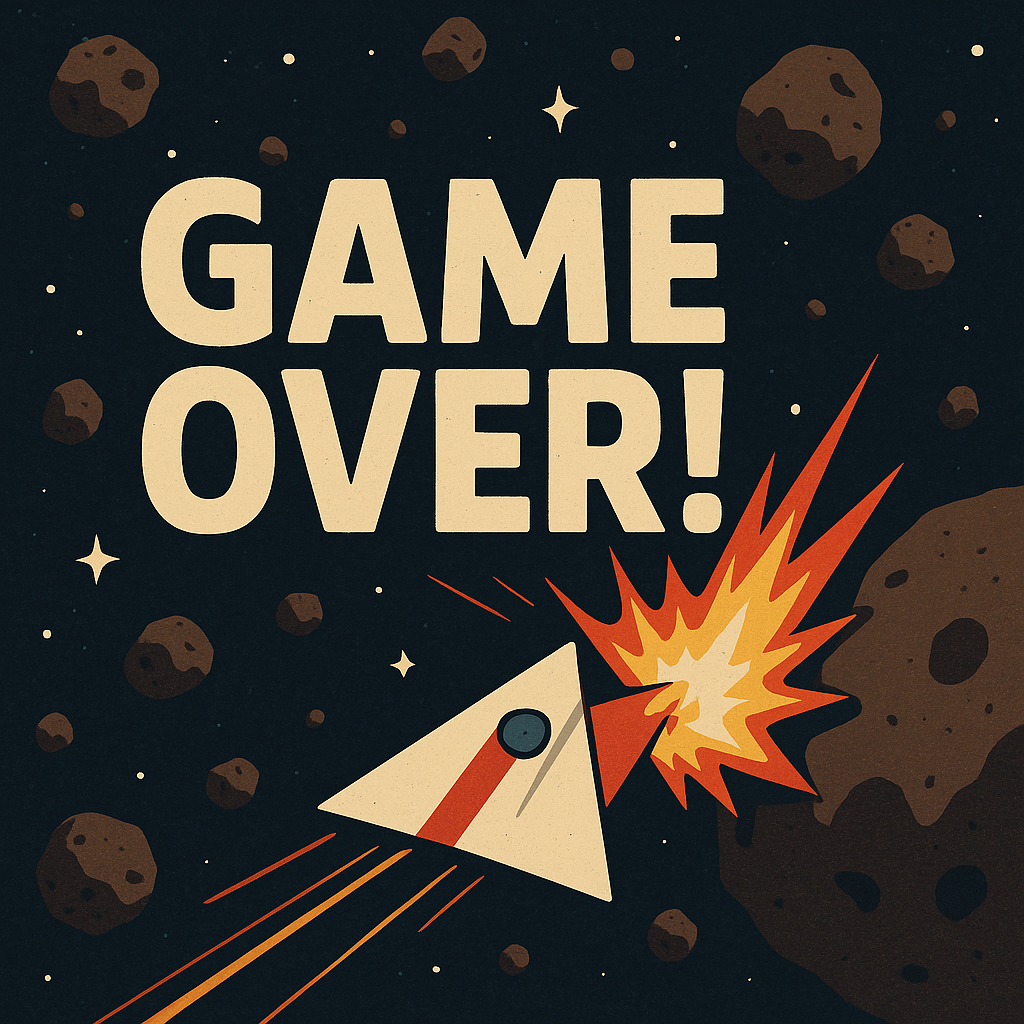
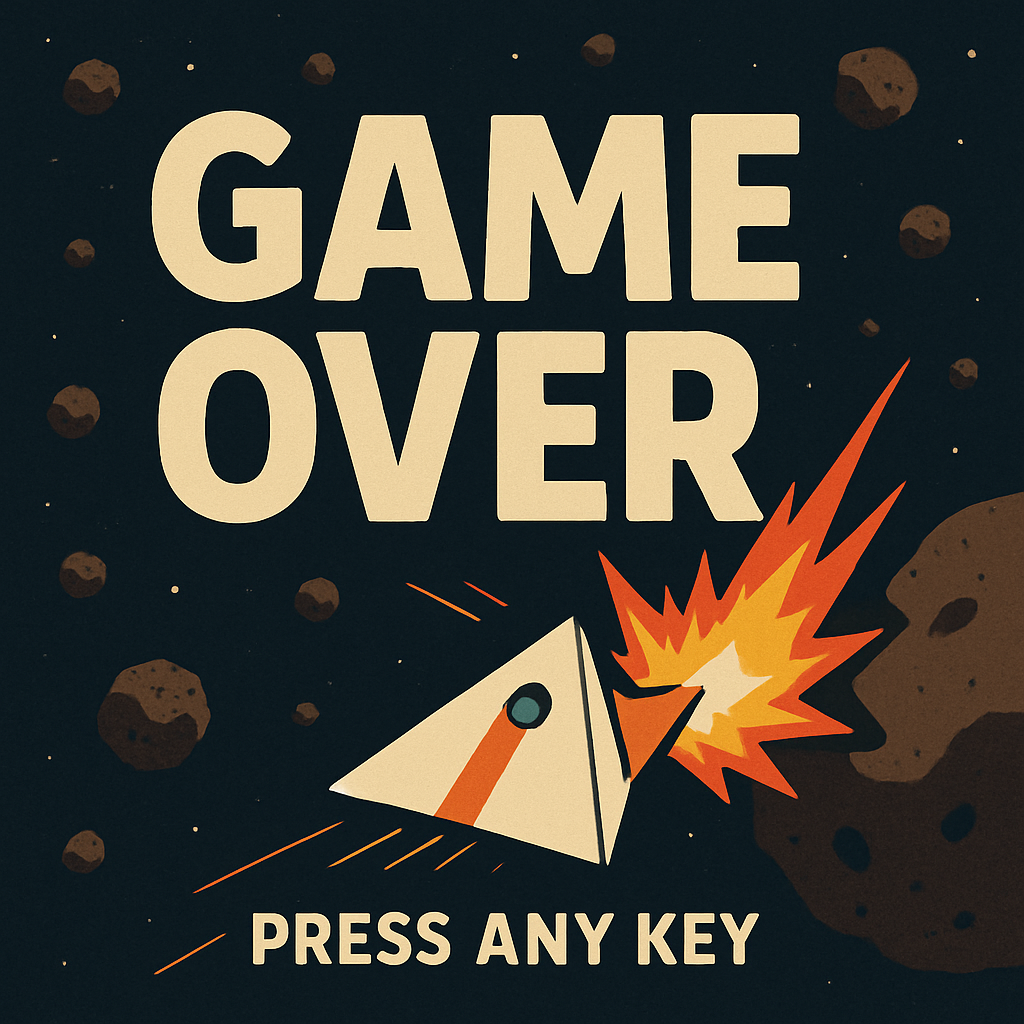
added game over message

diff --git a/main.py b/main.py
@@ -60,7 +60,8 @@ def main():
         
         dt = (fpsclock.tick(60)) /1000                   ##This limits the FPS to 60
 
-    end_screen = pygame.image.load('Gameover.png')
+    end_img = pygame.image.load('Gameover.png')
+    end_screen = pygame.transform.scale(end_img, (SCREEN_WIDTH, SCREEN_HEIGHT))
     gow = (SCREEN_WIDTH / 2) - (end_screen.get_width() / 2)
     goh = (SCREEN_HEIGHT / 2) - (end_screen.get_height() / 2)
     end_standby = True

diff --git a/player.py b/player.py
@@ -55,7 +55,6 @@ class Shot(CircleShape):
         super().__init__(x, y, SHOT_RADIUS)
         self.shot_radius = SHOT_RADIUS
         self.speed = velocity
-        self.position = self.position
 
     def draw (self, screen):
         x = self.position[0]
